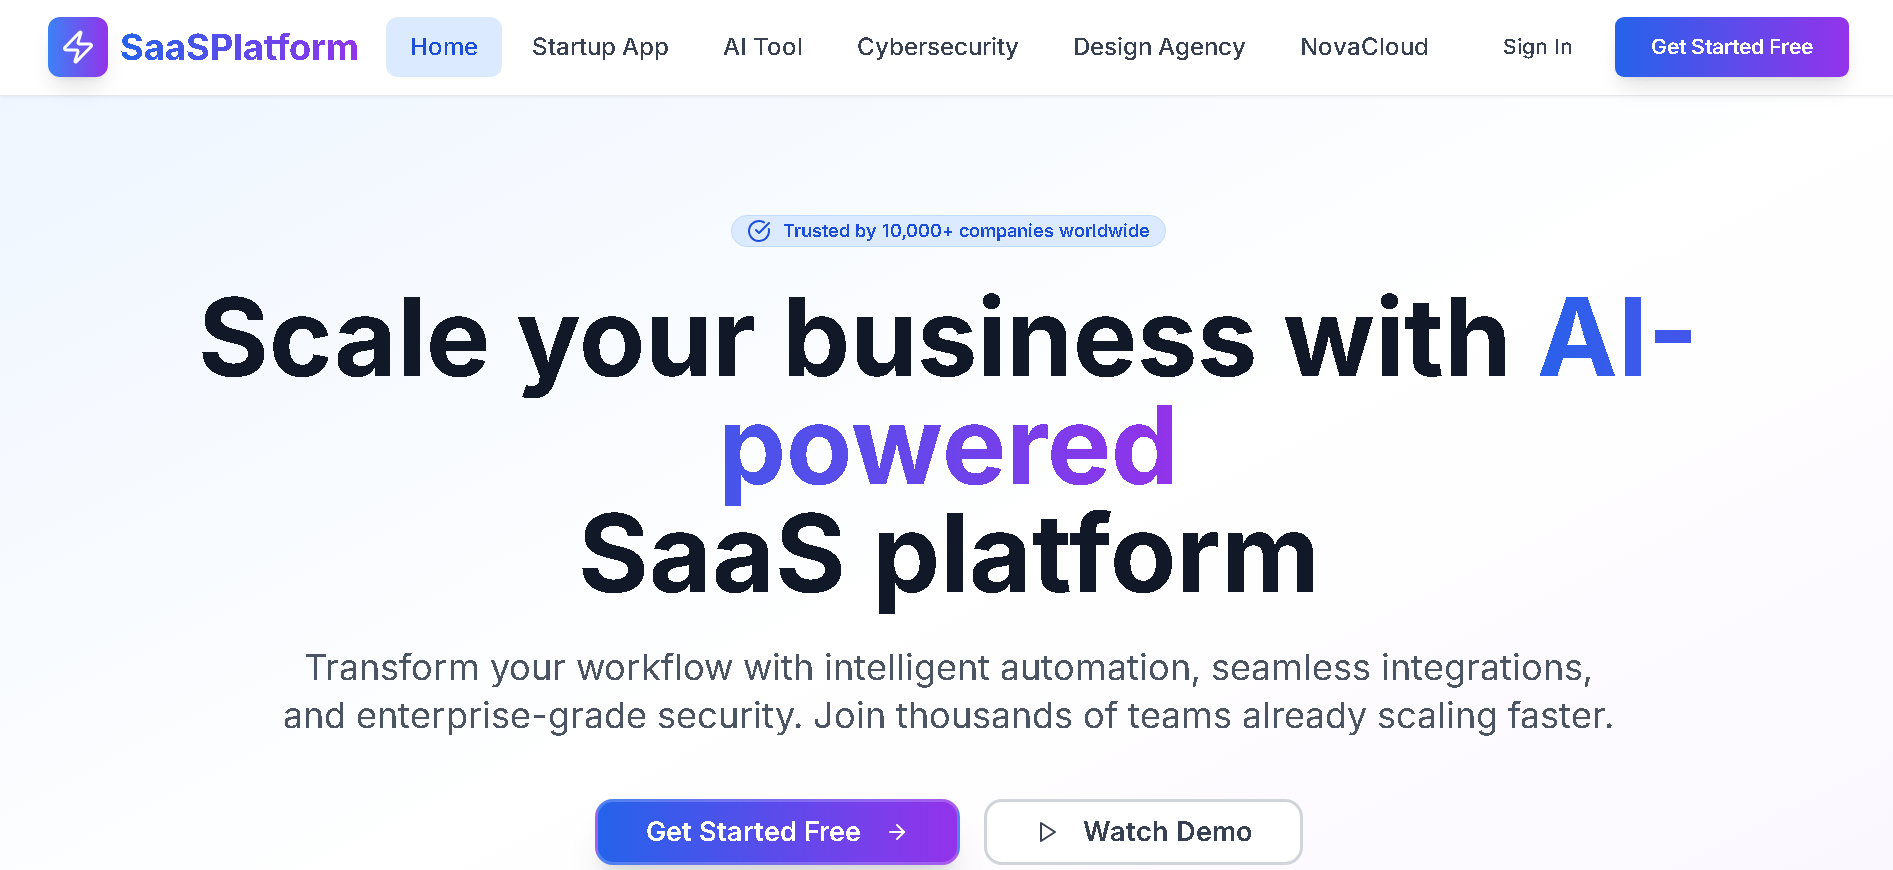
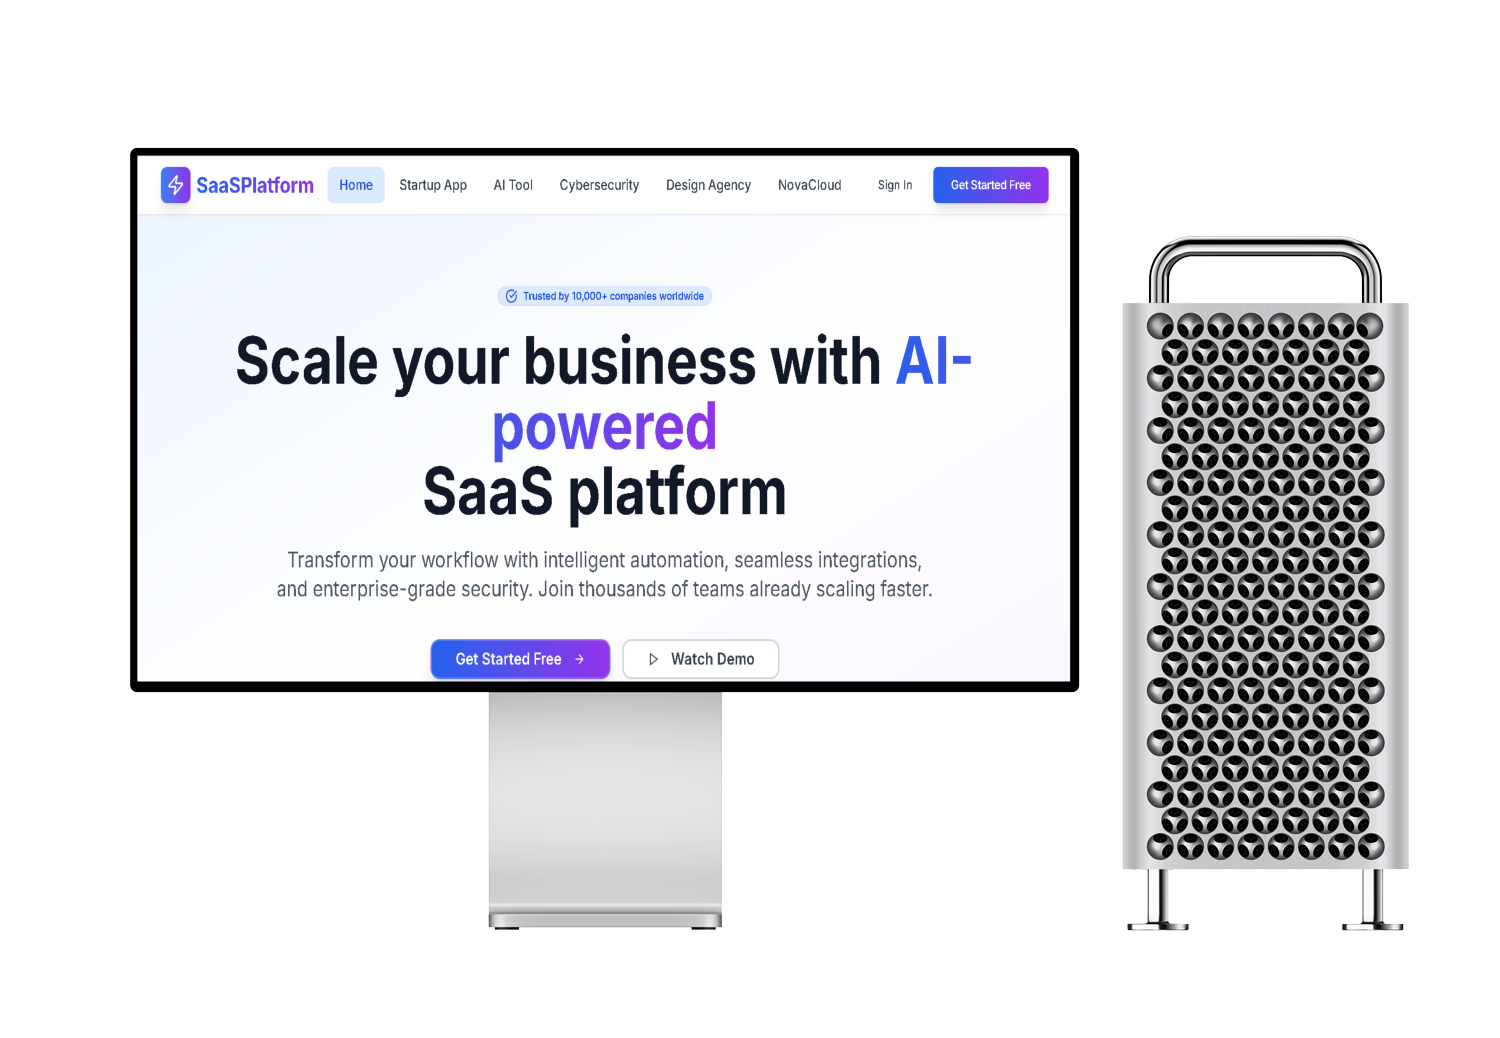
done

diff --git a/src/components/Projects.tsx b/src/components/Projects.tsx
@@ -126,6 +126,15 @@ export const Projects = () => {
        technologies: ["React Native", "Node.js", "Express API", "Responsive Design", "neonDB"],
        githubUrl: "https://github.com/subhan513/Recipe-Finder-App"
      },
+     {
+       title: "SaaS Landing Pages",
+       category: "SaaS Landing Pages",
+       description: "",
+       image: "/lovable-uploads/saas.png",
+       technologies: ["React js", "Tailwind CSS", "Responsive Design"],
+       githubUrl: "https://github.com/subhan513/SaaS-Landing-Pages",
+       websiteUrl: "https://saas-landing-pages-self.vercel.app/",
+     },
     {
       title: "NewsMonkey - Top General Headlines",
       category: "News Platform",
